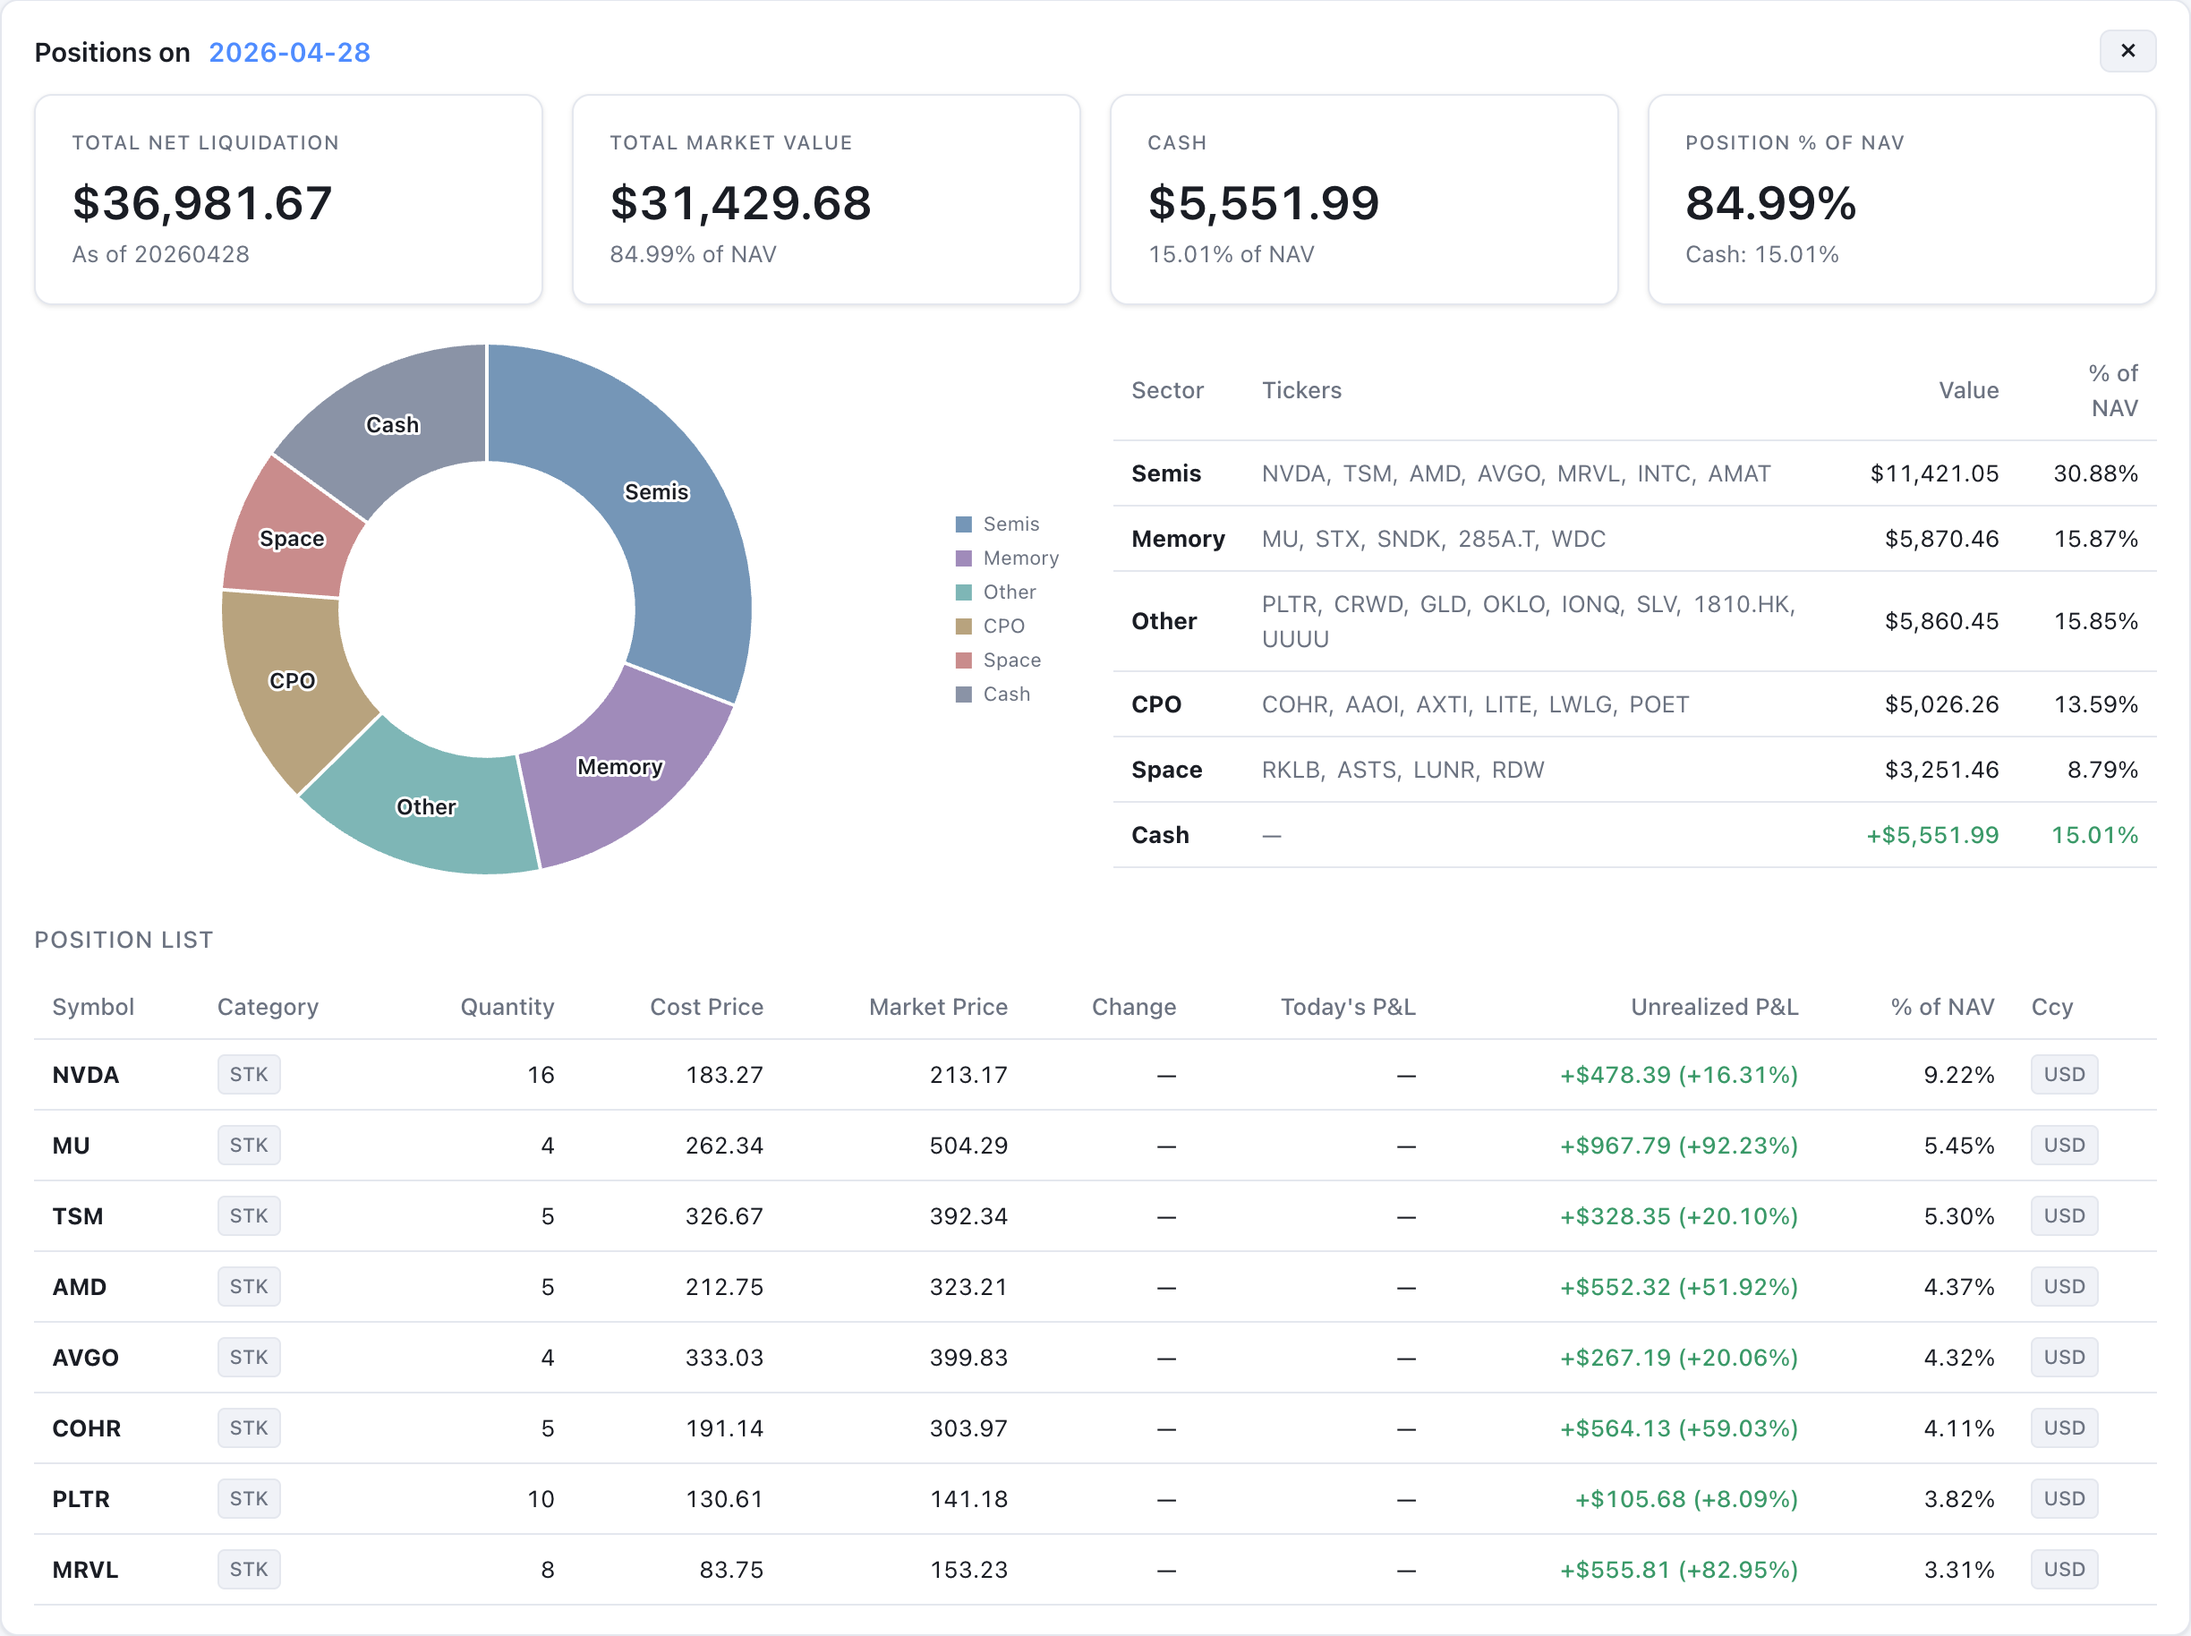
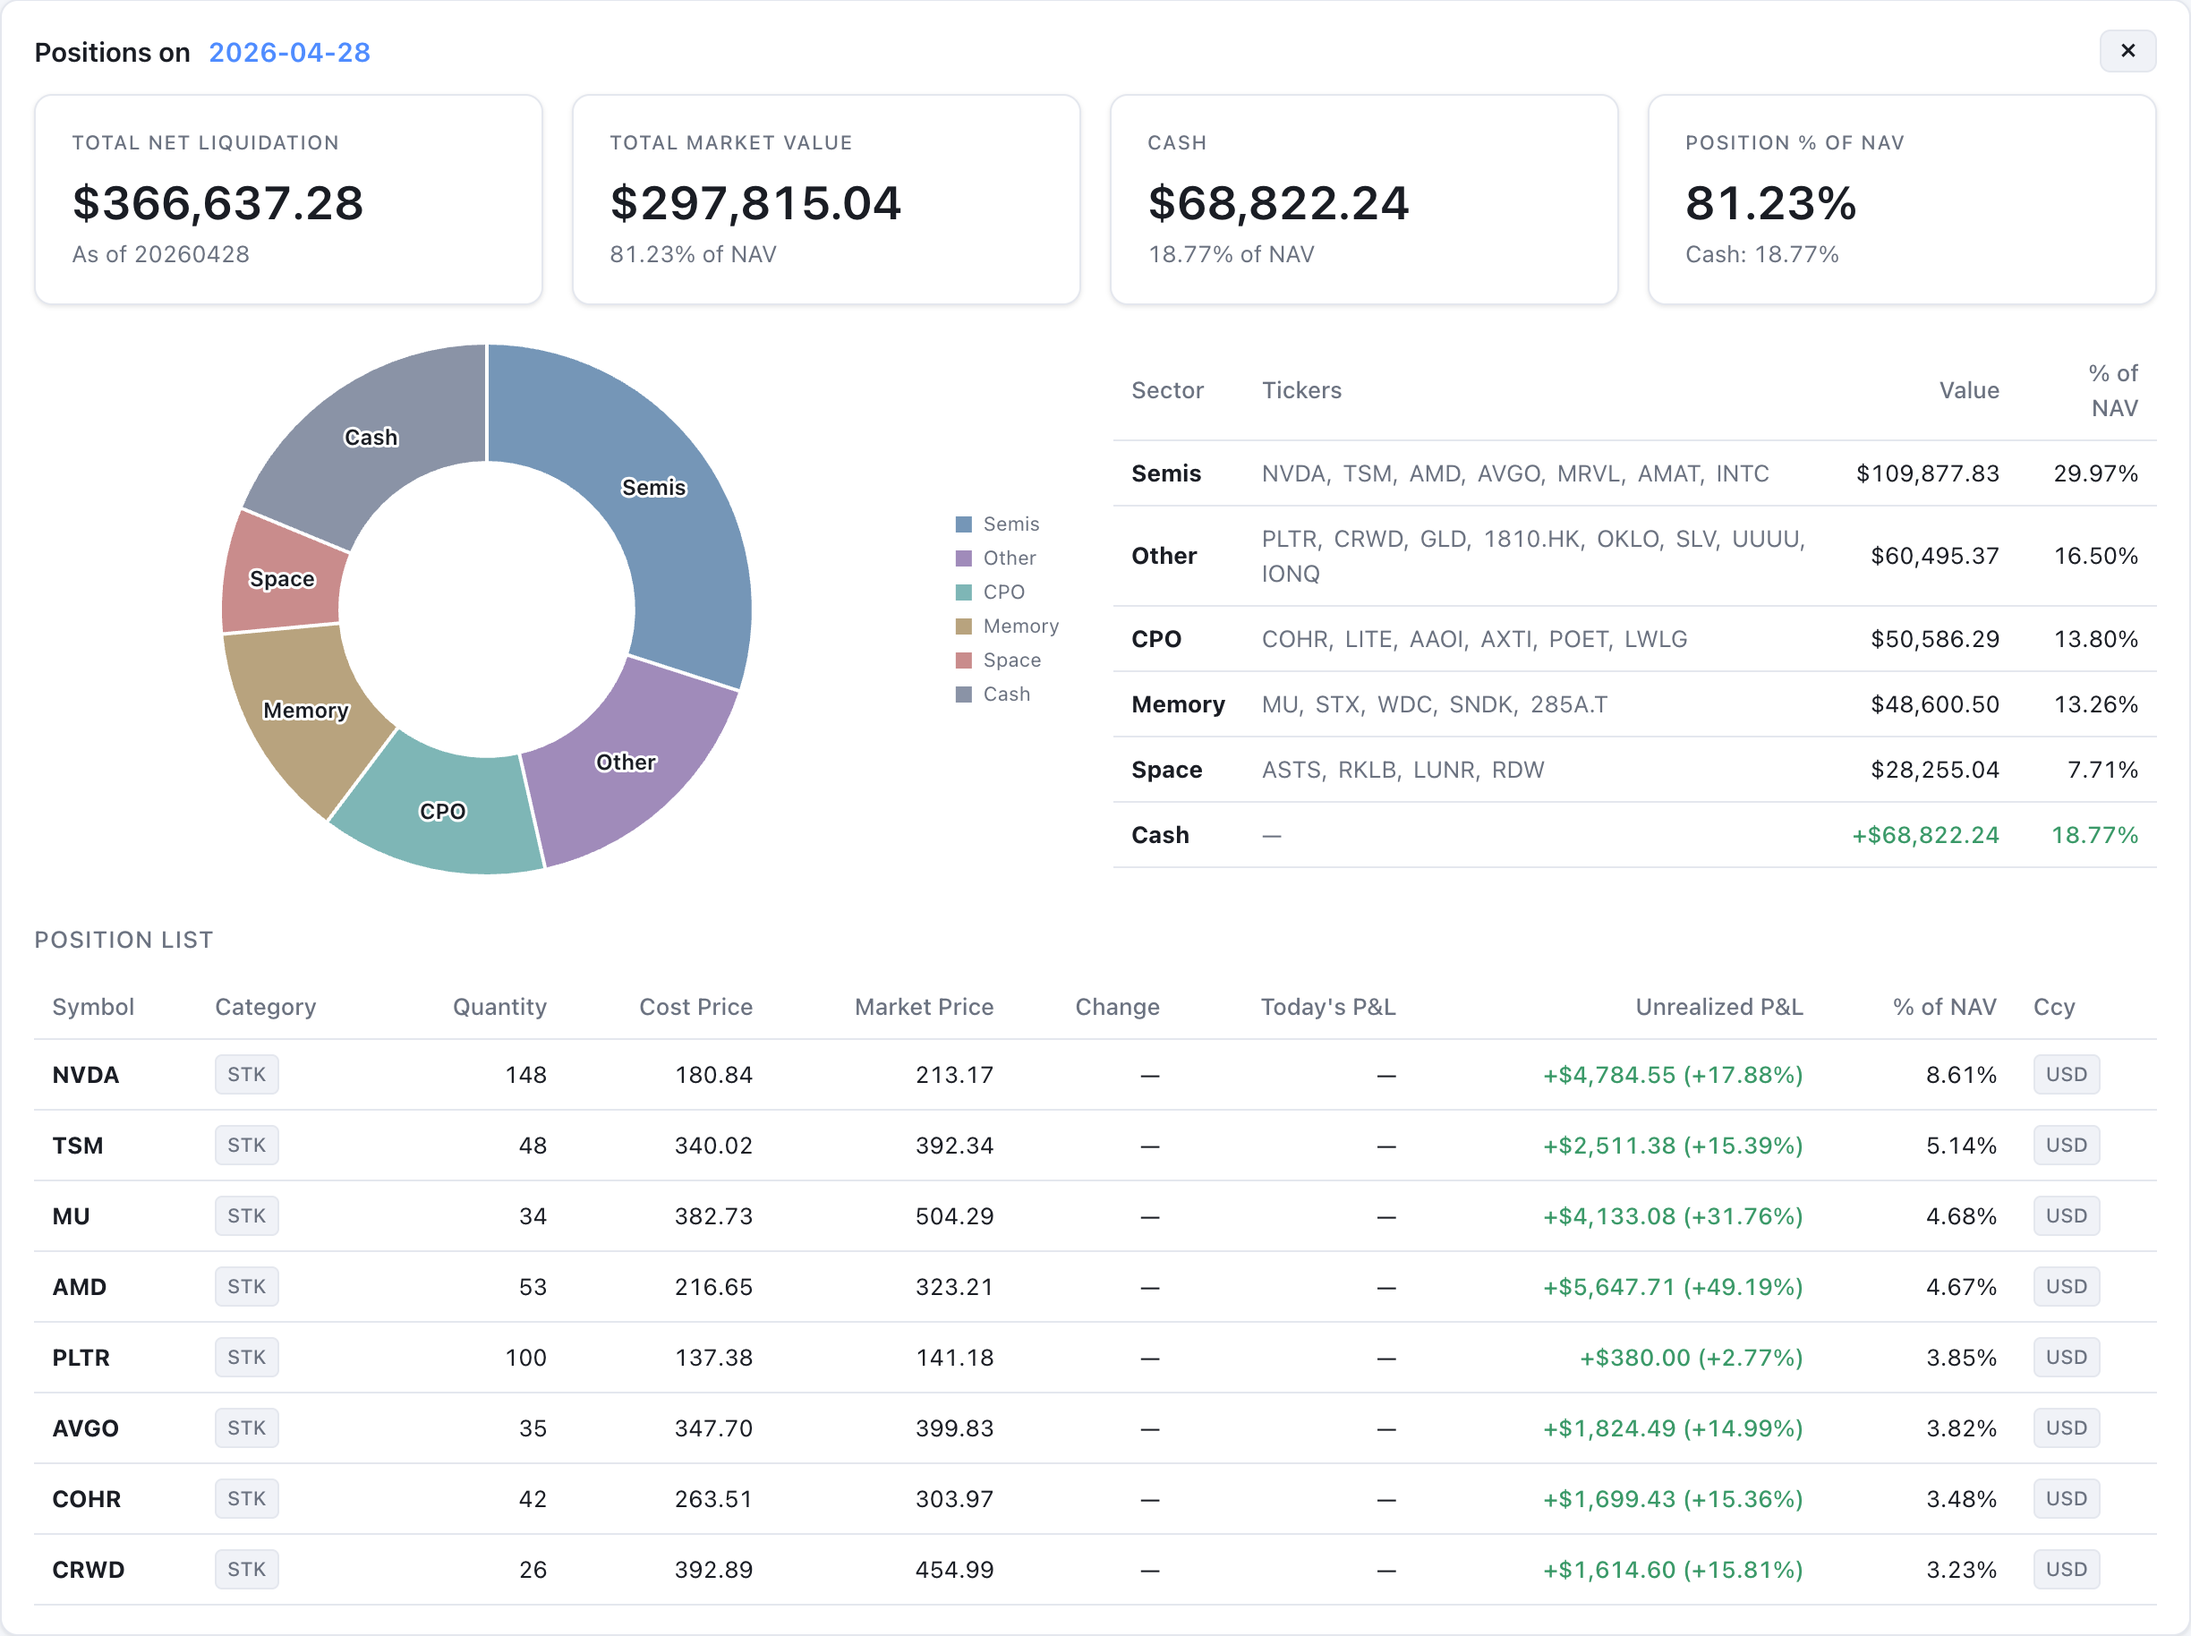
Demo: 10x scale, denser active trading, fuller P&L distribution
Address realism gaps in the demo portfolio (still real Yahoo prices):
- Net liquidation scaled ~10x ($250k principal -> ~$456k NAV)
- Active management (periodic profit-taking + loss-cutting) so the blotter is
  busy and every name books a non-zero realized P&L (no more $0 middle on the
  By-Symbol chart); ~1050 trades
- Fill times weighted by position size so mainstream names (NVDA/AMD/MU/TSM...)
  lead the most-recent trades instead of obscure tickers
- Real losers kept/cut for a believable loss side (PLTR/OKLO/1810.HK) and red
  unrealized positions; win rate down to a realistic ~87%
- Re-captured all 8 screenshots

diff --git a/README.md b/README.md
@@ -51,7 +51,7 @@ binds to `127.0.0.1` only.
 ### Positions tab
 
 ![Positions — demo data](docs/screenshots/positions.png)
-<sub>↑ Demo portfolio at real prices. ~85% invested with a positive cash buffer (no margin); top holdings shown (list truncated).</sub>
+<sub>↑ Demo portfolio at real prices. ~75% invested with a positive cash buffer (no margin); top holdings shown (list truncated).</sub>
 
 - 4 KPI cards: Total NLV / Market Value / Cash / Position % of NAV (with
   negative-cash margin warning)
